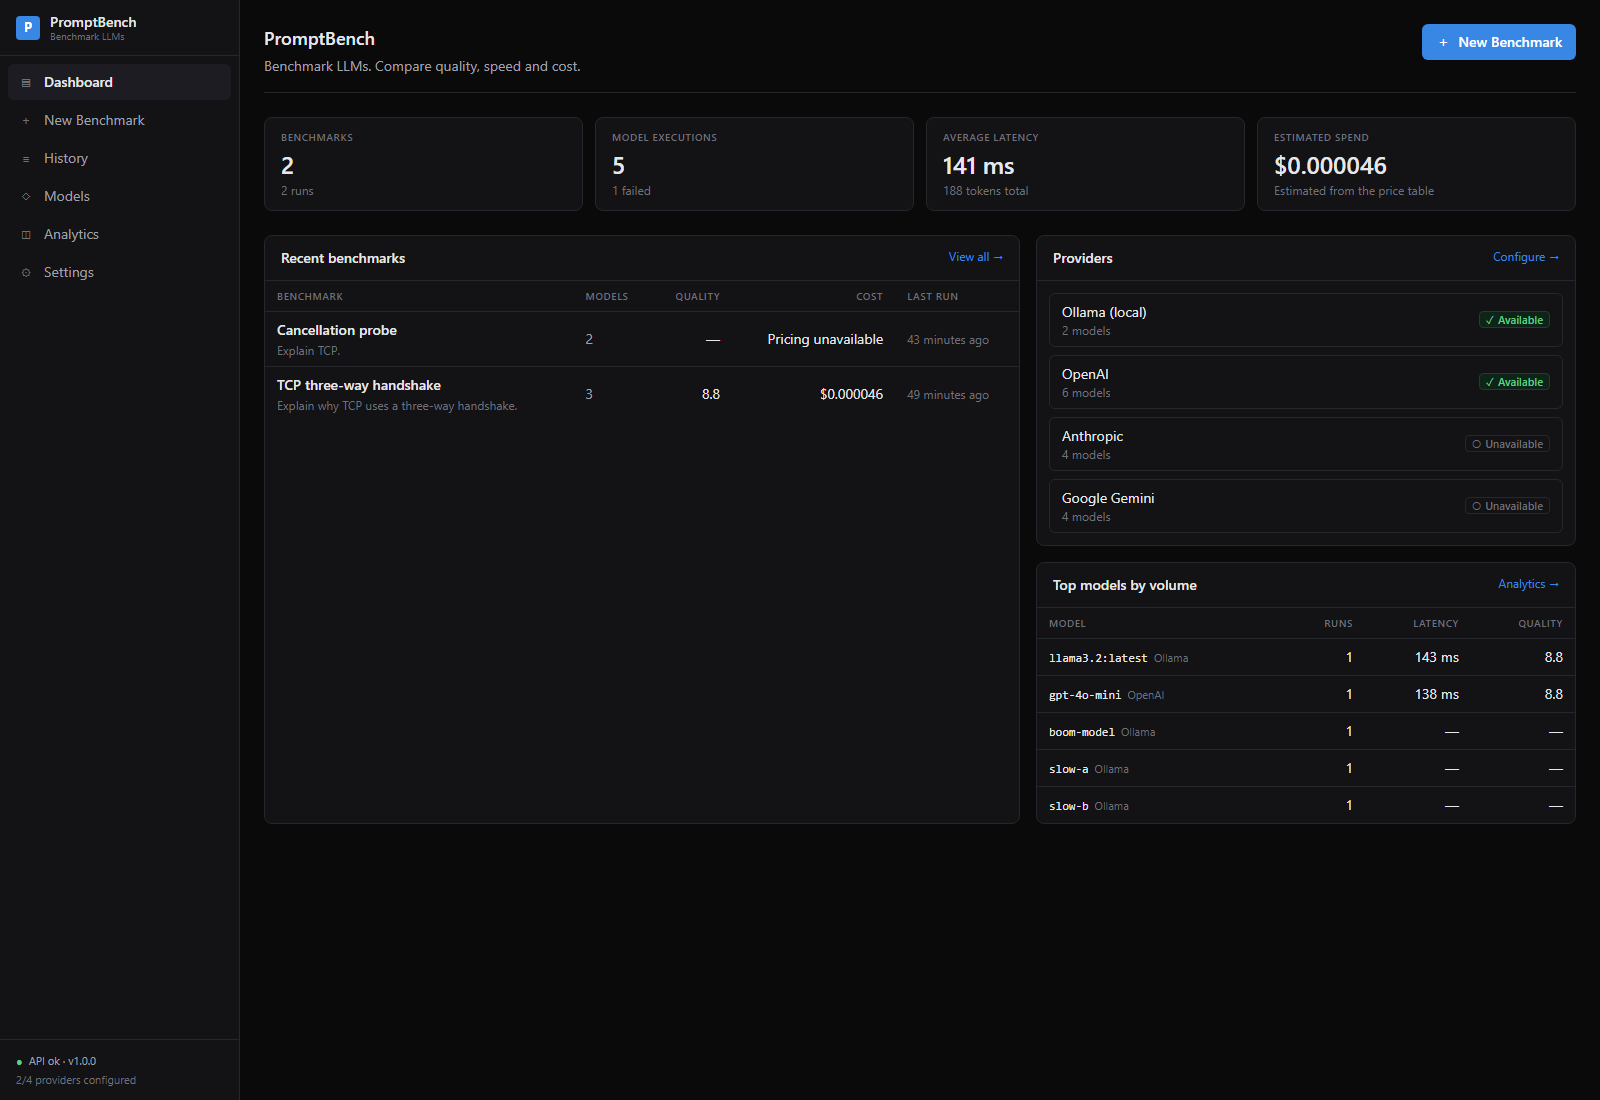
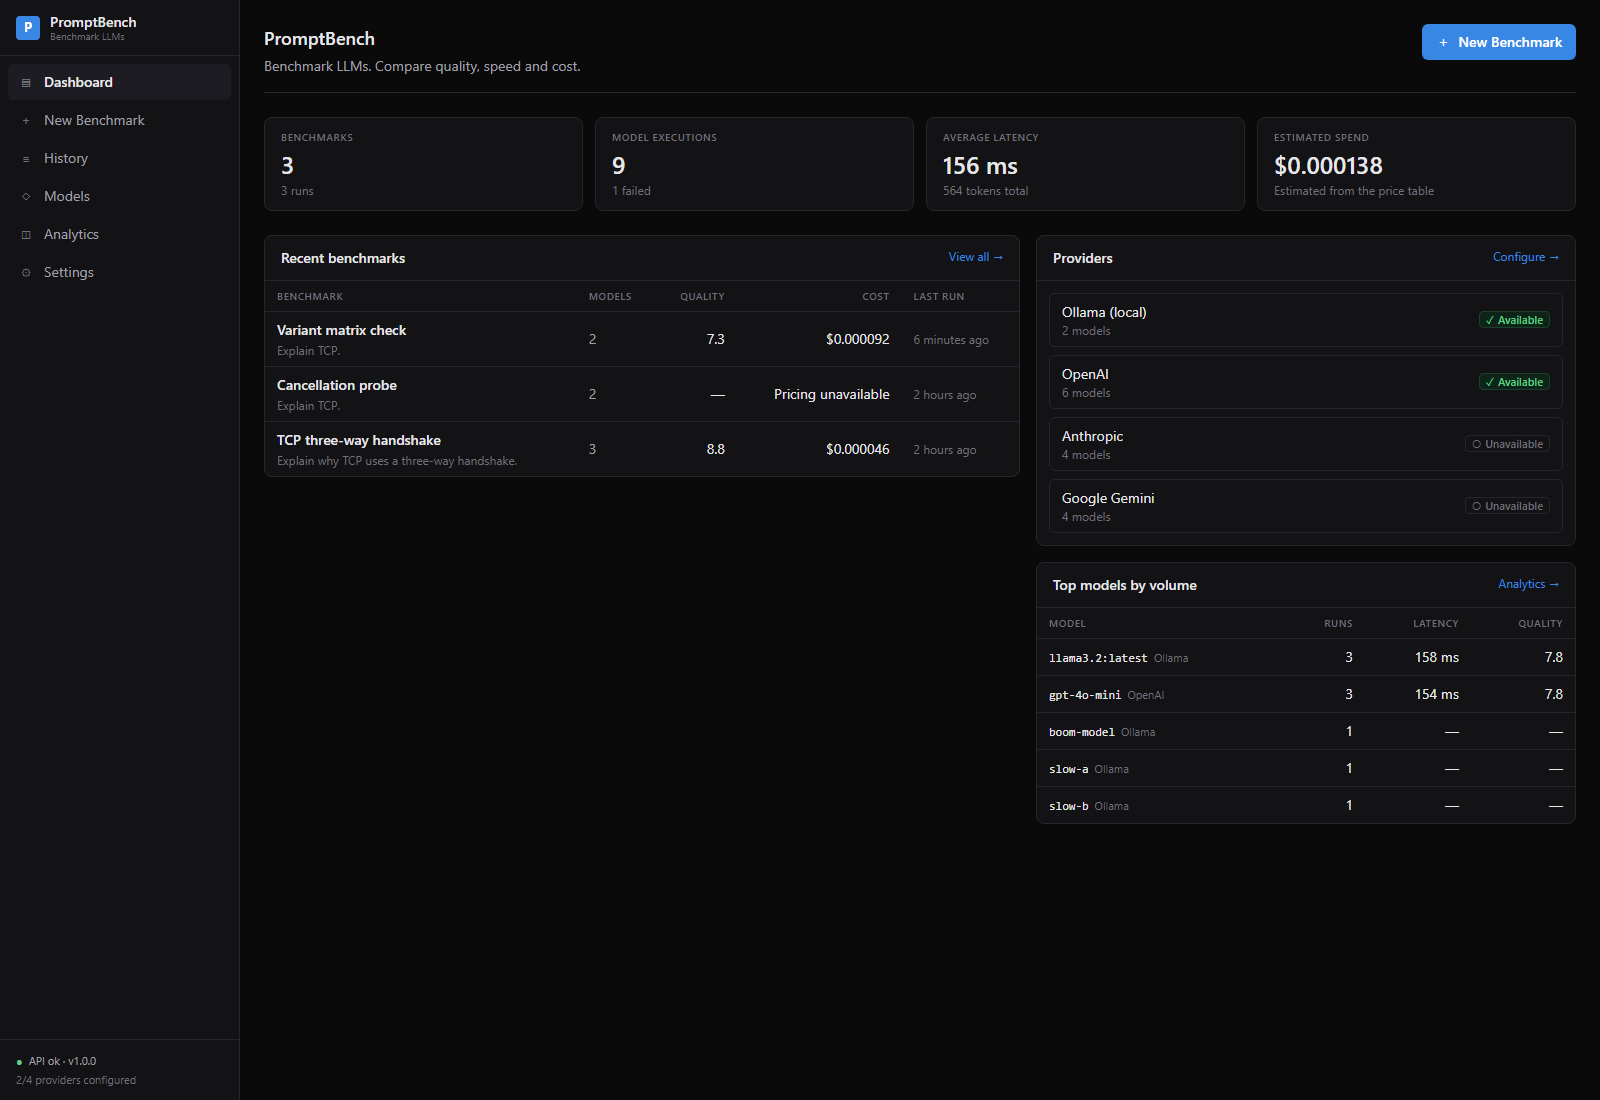
chore: final polish and cleanup
- stop cards stretching to the tallest sibling on the dashboard and results
  pages (grid items-start)
- refresh screenshots from the final build and add the model x variant
  matrix view to the README
- drop the unused playwright dev dependency (it was only used ad hoc to
  capture screenshots; no suite depends on it)
- remove two stray smoke-test artifacts committed by accident

Verified end to end against live servers: concurrent execution, failure
isolation with classified errors, bounded retries, SSE progress, mid-flight
cancellation, the 2x2 prompt-variant matrix, all four export formats, and the
full Docker stack running with no API keys configured.

diff --git a/README.md b/README.md
@@ -67,7 +67,7 @@ Three principles shape the whole product:
 |---|---|
 | **Dashboard** <br> <img src="docs/screenshots/dashboard.png" width="420"> | **New benchmark** <br> <img src="docs/screenshots/new.png" width="420"> |
 | **History** <br> <img src="docs/screenshots/history.png" width="420"> | **Analytics** <br> <img src="docs/screenshots/analytics.png" width="420"> |
-| **Models** <br> <img src="docs/screenshots/models.png" width="420"> | **Results** <br> <img src="docs/screenshots/results.png" width="420"> |
+| **Models** <br> <img src="docs/screenshots/models.png" width="420"> | **Prompt variants — model × variant matrix** <br> <img src="docs/screenshots/variants.png" width="420"> |
 
 > These are real screenshots of the running application. The provider endpoints
 > behind them were served by a local stand-in during capture, so the model
